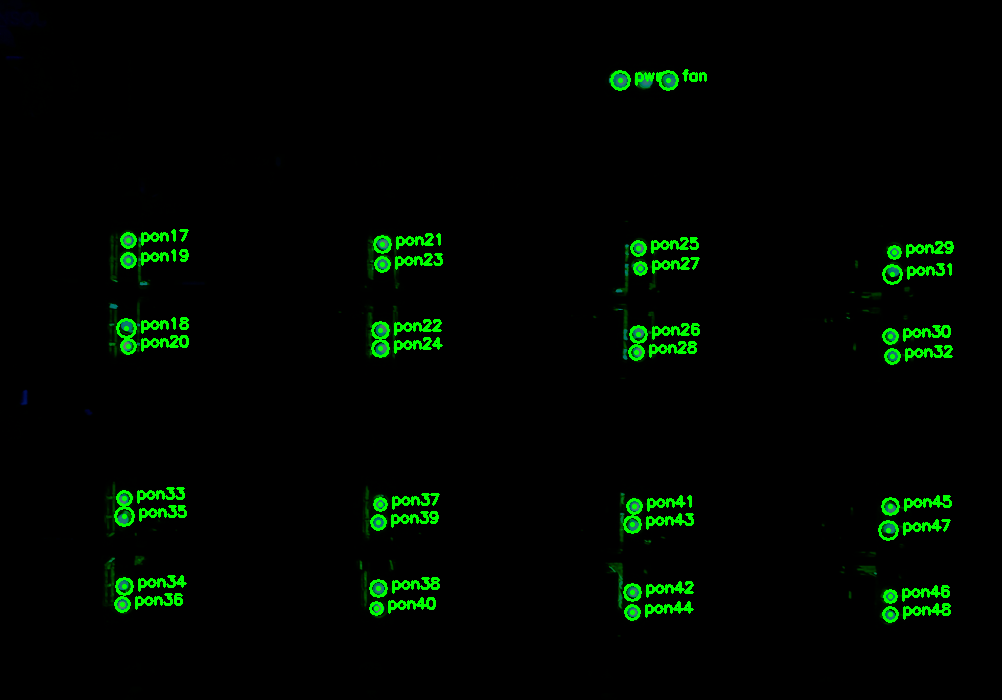
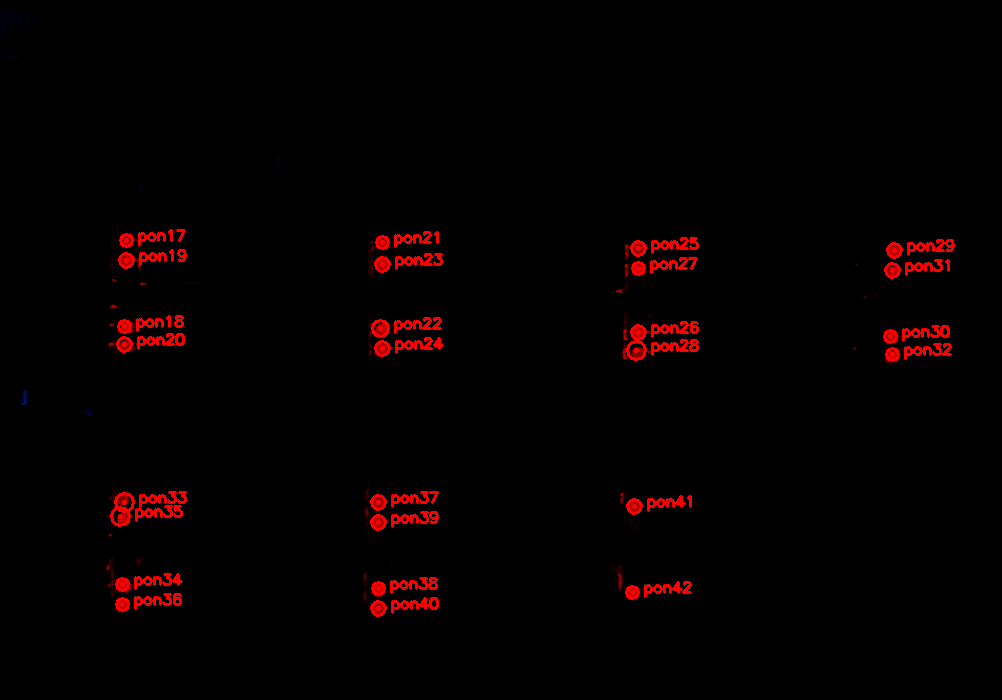
updates

diff --git a/flash1.py b/flash1.py
@@ -1,0 +1,79 @@
+import serial
+import time
+import random
+from serial.tools import list_ports
+
+def find_com_port():
+    ports = list_ports.comports()
+    for port in ports:
+        if 'COM13' in port.device:
+            return port.device
+    return None
+
+def send_commands(commands):
+    try:
+        port = find_com_port()
+        if not port:
+            raise Exception("COM13 not found")
+
+        # Open serial connection
+        with serial.Serial(port, 115200, timeout=1) as ser:
+            # Verify port is open
+            if not ser.is_open:
+                ser.open()
+            
+            # Initial delay for device to stabilize
+            time.sleep(1)
+            
+            # Send initial sequence
+            for command in commands:
+                ser.write(command.encode())
+                response = ser.readline()
+                print(f"Sent: {command.strip()}, Response: {response}")
+                time.sleep(1)
+            
+            # Random sequence
+            for i in range(22,70):
+                #j = random.randint(0,1)
+                cmd = f"pts.sh 310 {i} 0 1\n"
+                ser.write(cmd.encode())
+                response = ser.readline()
+                print(f"Sent: {cmd.strip()}, Response: {response}")
+                time.sleep(0.25)
+            
+            ser.write("pts.sh 310  0  0  0\n".encode())
+            response = ser.readline()
+            # Random sequence
+            for i in range(22,70):
+                #j = random.randint(0,1)
+                cmd = f"pts.sh 310 {i} 0 2\n"
+                ser.write(cmd.encode())
+                response = ser.readline()
+                print(f"Sent: {cmd.strip()}, Response: {response}")
+                time.sleep(0.25)
+            for i in range(4,22):
+                #j = random.randint(0,1)
+                cmd = f"pts.sh 310 {i} 0 9\n"
+                ser.write(cmd.encode())
+                response = ser.readline()
+                print(f"Sent: {cmd.strip()}, Response: {response}")
+                time.sleep(0.25)
+
+    except serial.SerialException as e:
+        print(f"Serial Error: {e}")
+    except Exception as e:
+        print(f"Error: {e}")
+
+
+commands = [
+
+    "pts.sh 310  0  0  1\n",
+    "pts.sh 310  0  0  0\n",
+    "pts.sh 310  0  0  2\n",
+    "pts.sh 310  0  0  0\n",
+    "pts.sh 310  0  0  9\n",
+    "pts.sh 310  0  0  0\n"
+]
+
+for l in range(1, 10):
+    send_commands(commands)

diff --git a/LED_missingsockets.py b/LED_missingsockets.py
@@ -128,7 +128,7 @@ def detect_LED(frame):
         dp=1,
         minDist=10,
         param1=10,
-        param2=9,
+        param2=7,
         minRadius=4,
         maxRadius=10
     )
